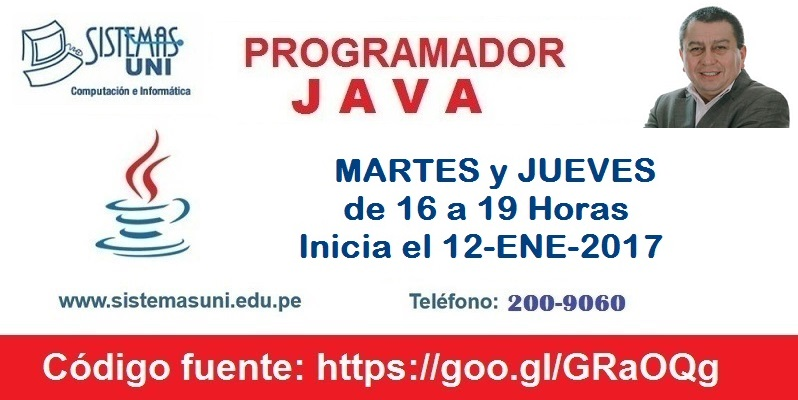
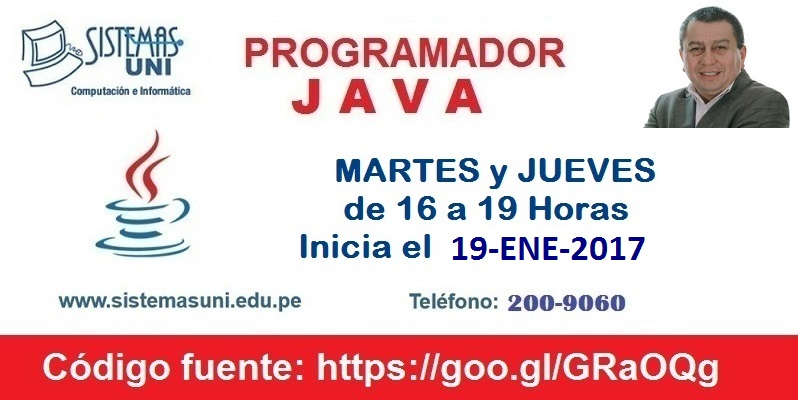
Repositorio

Changed region(s): [[0.5414, 0.57, 0.8421, 0.66]]

diff --git a/index.html b/index.html
@@ -74,7 +74,7 @@
   <ul>
   <li>Lugar: SistemasUNI</li>
   <li>Horario: MARTES y JUEVES de 16 a 19 Horas</li>
-  <li>Inicio: 12-ENE-2017</li>
+  <li>Inicio: 19-ENE-2017</li>
   <li>Dirección: <a href="https://goo.gl/maps/98vwAt9NZMU2">https://goo.gl/maps/98vwAt9NZMU2</a></li>
   <li>Programa: <a href="http://www.sistemasuni.edu.pe/dmodulos/JavaveloperCC.html">http://www.sistemasuni.edu.pe/dmodulos/JavaveloperCC.html</a></li>
   <li>Contenido: <a href="http://www.sistemasuni.edu.pe/dcursos/cursoPjava.html">http://www.sistemasuni.edu.pe/dcursos/cursoPjava.html</a></li>

diff --git a/README.md b/README.md
@@ -4,7 +4,7 @@
 
 - Lugar: SistemasUNI
 - Horario: MARTES y JUEVES DE 16 a 19 Horas
-- Inicio: 12-ENE-2017
+- Inicio: 19-ENE-2017
 - Dirección: https://goo.gl/maps/98vwAt9NZMU2
 - Programa: http://www.sistemasuni.edu.pe/dmodulos/JavaveloperCC.html
 - Contenido: http://www.sistemasuni.edu.pe/dcursos/cursoPjava.html
